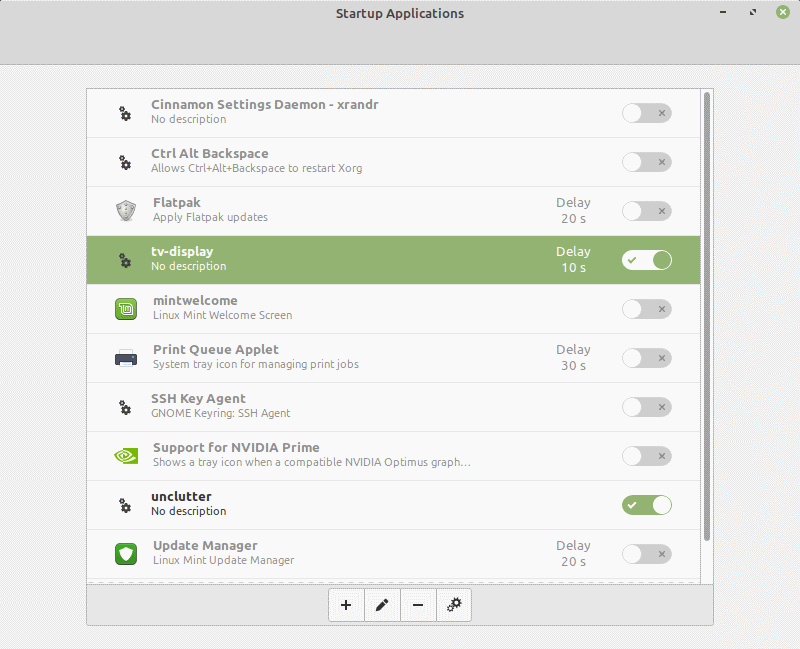
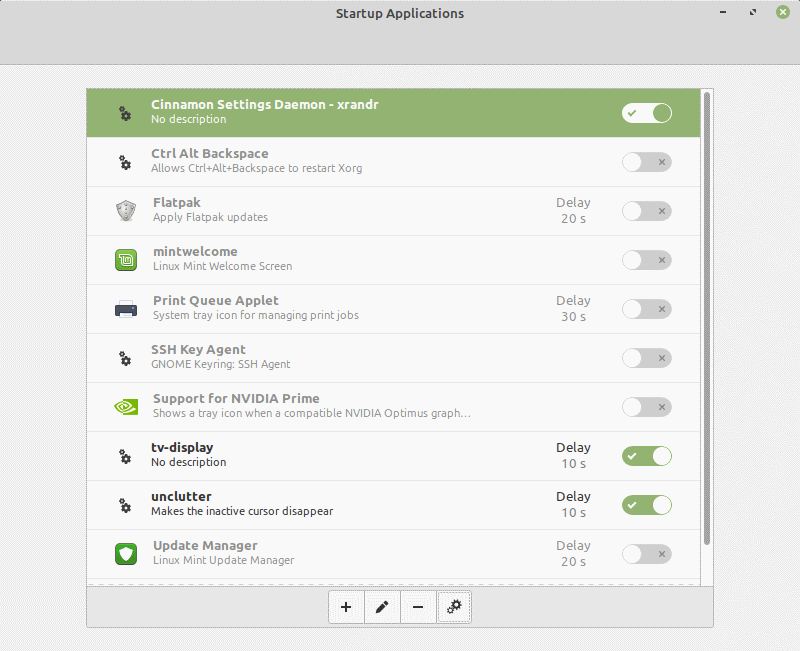
startup application change

diff --git a/deviceSetup/linuxMint.md b/deviceSetup/linuxMint.md
@@ -198,7 +198,10 @@ For easier refreshing of the imageList `files.json` files, download the
 
 ![Startup Applications](linuxMint-startupApplications.png)
 
-Disable all of the startup applications in the list.
+Most of the startup applications can be safely disabled to free up resources
+and reduce the chance of a notification appearing on the display.
+If "Cinnamon Settings Daemon - xrandr" is in the list, keep it enabled
+as it makes some of the display settings work smoother.
 
 First we'll add the application to make the mouse cursor disappear when its
 inactive. Click the **+** button to add a **Custom Command**.
